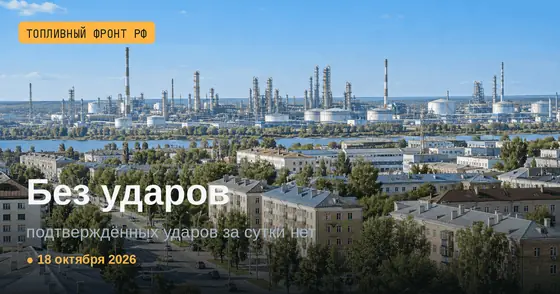
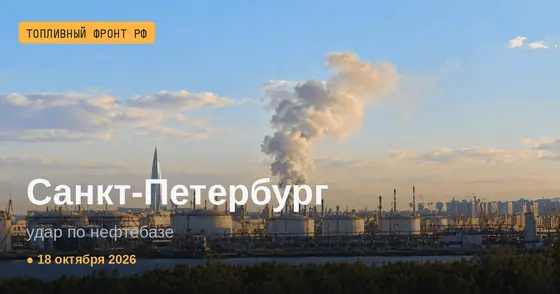
news: regenerate SEO digest + archive

diff --git a/news/2026-10-18.html b/news/2026-10-18.html
@@ -17,7 +17,7 @@
   <meta property="og:url" content="https://npz-tactical-map.vercel.app/news/2026-10-18">
   <meta property="og:title" content="Сводка за 18 октября 2026: Удар по терминалу в Санкт-Петербурге и ещё 3 удара | Топливный фронт РФ">
   <meta property="og:description" content="Топливный фронт РФ за 18 октября 2026: В ночь на 18 октября на территории Петербургского нефтяного терминала начался пожар после атаки беспилотников. Сообщалось о повреждениях объектов инфр… Удары по НПЗ, дефицит бензина, лимиты на АЗС.">
-  <meta property="og:image" content="https://npz-tactical-map.vercel.app/assets/cover-2026-10-18.png?v=004214ee">
+  <meta property="og:image" content="https://npz-tactical-map.vercel.app/assets/cover-2026-10-18.png?v=bd50fd20">
   <meta property="og:image:alt" content="Сводка ударов по НПЗ и дефицита бензина — Топливный фронт РФ">
   <meta property="og:image:width" content="1200">
   <meta property="og:image:height" content="630">
@@ -25,14 +25,15 @@
   <meta name="twitter:card" content="summary_large_image">
   <meta name="twitter:title" content="Сводка за 18 октября 2026: Удар по терминалу в Санкт-Петербурге и ещё 3 удара | Топливный фронт РФ">
   <meta name="twitter:description" content="Топливный фронт РФ за 18 октября 2026: В ночь на 18 октября на территории Петербургского нефтяного терминала начался пожар после атаки беспилотников. Сообщалось о повреждениях объектов инфр… Удары по НПЗ, дефицит бензина, лимиты на АЗС.">
-  <meta name="twitter:image" content="https://npz-tactical-map.vercel.app/assets/cover-2026-10-18.png?v=004214ee">
+  <meta name="twitter:image" content="https://npz-tactical-map.vercel.app/assets/cover-2026-10-18.png?v=bd50fd20">
   <meta name="twitter:image:alt" content="NPZ Tactical Map — Russia Fuel Crisis Daily Brief">
 
   <link rel="alternate" type="application/rss+xml" title="Топливный фронт РФ — сводки (RSS)" href="https://npz-tactical-map.vercel.app/rss.xml">
 
-  <script type="application/ld+json">{"@context": "https://schema.org", "@type": "NewsArticle", "headline": "Сводка за 18 октября 2026: Удар по терминалу в Санкт-Петербурге и ещё 3 удара", "datePublished": "2026-10-18", "dateModified": "2026-10-18", "image": ["https://npz-tactical-map.vercel.app/assets/cover-2026-10-18.png?v=004214ee"], "author": {"@type": "Organization", "name": "Топливный фронт РФ"}, "publisher": {"@type": "Organization", "name": "Топливный фронт РФ", "url": "https://npz-tactical-map.vercel.app/"}, "description": "Топливный фронт РФ за 18 октября 2026: В ночь на 18 октября на территории Петербургского нефтяного терминала начался пожар после атаки беспилотников. Сообщалось о повреждениях объектов инфр… Удары по НПЗ, дефицит бензина, лимиты на АЗС.", "mainEntityOfPage": "https://npz-tactical-map.vercel.app/news/2026-10-18", "isAccessibleForFree": true}</script>
+  <script type="application/ld+json">{"@context": "https://schema.org", "@type": "NewsArticle", "headline": "Сводка за 18 октября 2026: Удар по терминалу в Санкт-Петербурге и ещё 3 удара", "datePublished": "2026-10-18", "dateModified": "2026-10-18", "image": ["https://npz-tactical-map.vercel.app/assets/cover-2026-10-18.png?v=bd50fd20"], "author": {"@type": "Organization", "name": "Топливный фронт РФ"}, "publisher": {"@type": "Organization", "name": "Топливный фронт РФ", "url": "https://npz-tactical-map.vercel.app/"}, "description": "Топливный фронт РФ за 18 октября 2026: В ночь на 18 октября на территории Петербургского нефтяного терминала начался пожар после атаки беспилотников. Сообщалось о повреждениях объектов инфр… Удары по НПЗ, дефицит бензина, лимиты на АЗС.", "mainEntityOfPage": "https://npz-tactical-map.vercel.app/news/2026-10-18", "isAccessibleForFree": true}</script>
   <script type="application/ld+json">{"@context": "https://schema.org", "@type": "BreadcrumbList", "itemListElement": [{"@type": "ListItem", "position": 1, "name": "Топливный фронт РФ", "item": "https://npz-tactical-map.vercel.app/"}, {"@type": "ListItem", "position": 2, "name": "Сводки", "item": "https://npz-tactical-map.vercel.app/news"}, {"@type": "ListItem", "position": 3, "name": "Октябрь 2026", "item": "https://npz-tactical-map.vercel.app/news/2026-10"}, {"@type": "ListItem", "position": 4, "name": "18 октября 2026", "item": "https://npz-tactical-map.vercel.app/news/2026-10-18"}]}</script>
-  <script type="application/ld+json">{"@context": "https://schema.org", "@type": "VideoObject", "name": "Удар по Санкт-Петербургскому нефтяному терминалу · 18.10.2026", "description": "Топливный фронт РФ за 18 октября 2026: В ночь на 18 октября на территории Петербургского нефтяного терминала начался пожар после атаки беспилотников. Сообщалось о повреждениях объектов инфр… Удары по НПЗ, дефицит бензина, лимиты на АЗС.", "thumbnailUrl": ["https://npz-tactical-map.vercel.app/assets/cover-2026-10-18.png?v=004214ee", "https://i.ytimg.com/vi/cPPW-l3BLVk/hqdefault.jpg"], "uploadDate": "2026-10-18T06:14:14Z", "embedUrl": "https://www.youtube.com/embed/cPPW-l3BLVk", "inLanguage": "ru", "duration": "PT17S"}</script>
+  <script type="application/ld+json">{"@context": "https://schema.org", "@type": "VideoObject", "name": "Удар по Санкт-Петербургскому нефтяному терминалу · 18.10.2026", "description": "Топливный фронт РФ за 18 октября 2026: В ночь на 18 октября на территории Петербургского нефтяного терминала начался пожар после атаки беспилотников. Сообщалось о повреждениях объектов инфр… Удары по НПЗ, дефицит бензина, лимиты на АЗС.", "thumbnailUrl": ["https://npz-tactical-map.vercel.app/assets/cover-2026-10-18.png?v=bd50fd20", "https://i.ytimg.com/vi/iGhpnB3a8Nc/hqdefault.jpg"], "uploadDate": "2026-10-18T07:00:07Z", "embedUrl": "https://www.youtube.com/embed/iGhpnB3a8Nc", "inLanguage": "ru", "duration": "PT17S"}</script>
+  <script type="application/ld+json">{"@context": "https://schema.org", "@type": "VideoObject", "name": "Удар по Санкт-Петербургскому нефтяному терминалу · 18.10.2026", "description": "Топливный фронт РФ за 18 октября 2026: В ночь на 18 октября на территории Петербургского нефтяного терминала начался пожар после атаки беспилотников. Сообщалось о повреждениях объектов инфр… Удары по НПЗ, дефицит бензина, лимиты на АЗС.", "thumbnailUrl": ["https://npz-tactical-map.vercel.app/assets/cover-2026-10-18.png?v=bd50fd20", "https://i.ytimg.com/vi/cPPW-l3BLVk/hqdefault.jpg"], "uploadDate": "2026-10-18T06:14:14Z", "embedUrl": "https://www.youtube.com/embed/cPPW-l3BLVk", "inLanguage": "ru", "duration": "PT17S"}</script>
 
   <script>window.va = window.va || function () { (window.vaq = window.vaq || []).push(arguments); };</script>
   <script defer src="/_vercel/insights/script.js"></script>
@@ -205,7 +206,7 @@
     <div class="news-container">
       <nav class="brief-crumb"><a href="/news">📰 Все сводки</a> <span>/</span> <a href="/news/2026-10">Октябрь 2026</a> <span>/</span> 18 октября 2026</nav>
       <section class="news-hero">
-        <img class="news-hero-image" src="/assets/cover-2026-10-18.webp?v=2e6e148f" alt="Сводка за 18 октября 2026" width="1200" height="630" loading="eager">
+        <img class="news-hero-image" src="/assets/cover-2026-10-18.webp?v=768175ab" alt="Сводка за 18 октября 2026" width="1200" height="630" loading="eager">
         <span class="hero-kicker">воскресенье, 18.10.2026</span>
         <h1>18 октября 2026: Удар по терминалу в Санкт-Петербурге и ещё 3 удара</h1>
         <p class="section-sub">4 зафиксированных удара · 1 по НПЗ/энергетике. OSINT-агрегация по открытым источникам.</p>
@@ -404,6 +405,7 @@
           <h2>🎬 Видео за 18 октября 2026</h2>
           <p>Удары дня на карте и итог суток — короткие ролики на YouTube.</p>
           <div class="cta-buttons">
+            <a href="https://youtu.be/iGhpnB3a8Nc" class="cta-btn primary" target="_blank" rel="noopener">▶ Короткое видео: удары дня на карте</a>
             <a href="https://youtu.be/cPPW-l3BLVk" class="cta-btn primary" target="_blank" rel="noopener">▶ Срочно: удар на карте</a>
           </div>
         </div>

diff --git a/news/2026-10.html b/news/2026-10.html
@@ -17,7 +17,7 @@
   <meta property="og:url" content="https://npz-tactical-map.vercel.app/news/2026-10">
   <meta property="og:title" content="Удары по НПЗ и топливная обстановка — октябрь 2026 | Топливный фронт РФ">
   <meta property="og:description" content="Архив сводок за октябрь 2026: 122 удара по РФ, из них 33 по НПЗ/энергетике, за 18 дней в архиве. Хроника по дням с картой и источниками.">
-  <meta property="og:image" content="https://npz-tactical-map.vercel.app/assets/cover-2026-10-18.png?v=004214ee">
+  <meta property="og:image" content="https://npz-tactical-map.vercel.app/assets/cover-2026-10-18.png?v=bd50fd20">
   <meta property="og:image:alt" content="Сводка ударов по НПЗ и дефицита бензина — Топливный фронт РФ">
   <meta property="og:image:width" content="1200">
   <meta property="og:image:height" content="630">
@@ -25,7 +25,7 @@
   <meta name="twitter:card" content="summary_large_image">
   <meta name="twitter:title" content="Удары по НПЗ и топливная обстановка — октябрь 2026 | Топливный фронт РФ">
   <meta name="twitter:description" content="Архив сводок за октябрь 2026: 122 удара по РФ, из них 33 по НПЗ/энергетике, за 18 дней в архиве. Хроника по дням с картой и источниками.">
-  <meta name="twitter:image" content="https://npz-tactical-map.vercel.app/assets/cover-2026-10-18.png?v=004214ee">
+  <meta name="twitter:image" content="https://npz-tactical-map.vercel.app/assets/cover-2026-10-18.png?v=bd50fd20">
   <meta name="twitter:image:alt" content="NPZ Tactical Map — Russia Fuel Crisis Daily Brief">
 
   <link rel="alternate" type="application/rss+xml" title="Топливный фронт РФ — сводки (RSS)" href="https://npz-tactical-map.vercel.app/rss.xml">
@@ -204,7 +204,7 @@
     <div class="news-container">
       <nav class="brief-crumb"><a href="/news">📰 Все сводки</a> <span>/</span> Октябрь 2026</nav>
       <section class="news-hero">
-        <img class="news-hero-image" src="/assets/cover-2026-10-18.webp?v=2e6e148f" alt="Архив сводок за октябрь 2026" width="1200" height="630" loading="eager">
+        <img class="news-hero-image" src="/assets/cover-2026-10-18.webp?v=768175ab" alt="Архив сводок за октябрь 2026" width="1200" height="630" loading="eager">
         <span class="hero-kicker">Архив по месяцам</span>
         <h1>Удары по НПЗ и топливная обстановка — октябрь 2026</h1>
         <p class="section-sub">Хроника ударов и дефицита топлива за октябрь 2026: 122 удара за 18 дней, основные цели — Шебекино (7), Калуга (6), Ростов-на-Дону (6), Рязань (6), Самара (6).</p>
@@ -222,7 +222,7 @@
         <h2>🗓 Сводки по дням — октябрь 2026</h2>
         <div class="brief-grid">
         <a class="brief-card" href="/news/2026-10-18">
-          <div class="brief-card-cover" style="background-image:url('/assets/thumb/cover-2026-10-18.webp?v=786c3b83')">
+          <div class="brief-card-cover" style="background-image:url('/assets/thumb/cover-2026-10-18.webp?v=a00dd96f')">
             <span class="brief-card-date">18 октября</span>
           </div>
           <div class="brief-card-body">

diff --git a/news.html b/news.html
@@ -17,7 +17,7 @@
   <meta property="og:url" content="https://npz-tactical-map.vercel.app/news">
   <meta property="og:title" content="Топливный фронт РФ — сводки по дням | удары по НПЗ и дефицит бензина">
   <meta property="og:description" content="Ежедневные OSINT-сводки: удары БПЛА по нефтезаводам России, дефицит бензина, лимиты на АЗС, очереди, цены АИ-95, биржа СПбМТСБ. Архив за каждый день. Последнее обновление — 18 октября 2026.">
-  <meta property="og:image" content="https://npz-tactical-map.vercel.app/assets/cover-2026-10-18.png?v=004214ee">
+  <meta property="og:image" content="https://npz-tactical-map.vercel.app/assets/cover-2026-10-18.png?v=bd50fd20">
   <meta property="og:image:alt" content="Сводка ударов по НПЗ и дефицита бензина — Топливный фронт РФ">
   <meta property="og:image:width" content="1200">
   <meta property="og:image:height" content="630">
@@ -25,7 +25,7 @@
   <meta name="twitter:card" content="summary_large_image">
   <meta name="twitter:title" content="Топливный фронт РФ — сводки по дням | удары по НПЗ и дефицит бензина">
   <meta name="twitter:description" content="Ежедневные OSINT-сводки: удары БПЛА по нефтезаводам России, дефицит бензина, лимиты на АЗС, очереди, цены АИ-95, биржа СПбМТСБ. Архив за каждый день. Последнее обновление — 18 октября 2026.">
-  <meta name="twitter:image" content="https://npz-tactical-map.vercel.app/assets/cover-2026-10-18.png?v=004214ee">
+  <meta name="twitter:image" content="https://npz-tactical-map.vercel.app/assets/cover-2026-10-18.png?v=bd50fd20">
   <meta name="twitter:image:alt" content="NPZ Tactical Map — Russia Fuel Crisis Daily Brief">
 
   <link rel="alternate" type="application/rss+xml" title="Топливный фронт РФ — сводки (RSS)" href="https://npz-tactical-map.vercel.app/rss.xml">
@@ -204,7 +204,7 @@
 
       <section class="news-hero-lead">
         <a class="hero-cover-link" href="/news/2026-10-18">
-          <img class="news-hero-image" src="/assets/cover-2026-10-18.webp?v=2e6e148f" alt="Сводка за 18 октября 2026" width="1200" height="630" loading="eager">
+          <img class="news-hero-image" src="/assets/cover-2026-10-18.webp?v=768175ab" alt="Сводка за 18 октября 2026" width="1200" height="630" loading="eager">
         </a>
         <div class="hero-lead-body">
           <span class="hero-kicker">🔴 Свежая сводка · воскресенье, 18.10.2026</span>
@@ -252,7 +252,7 @@
         <p class="section-sub">Хроника топливного кризиса — каждый день с 7 июня 2026. Нажми на карточку, чтобы открыть сводку за дату.</p>
         <div class="brief-grid">
         <a class="brief-card is-latest" href="/news/2026-10-18">
-          <div class="brief-card-cover" style="background-image:url('/assets/thumb/cover-2026-10-18.webp?v=786c3b83')">
+          <div class="brief-card-cover" style="background-image:url('/assets/thumb/cover-2026-10-18.webp?v=a00dd96f')">
             <span class="brief-card-date">18 октября</span>
           </div>
           <div class="brief-card-body">
